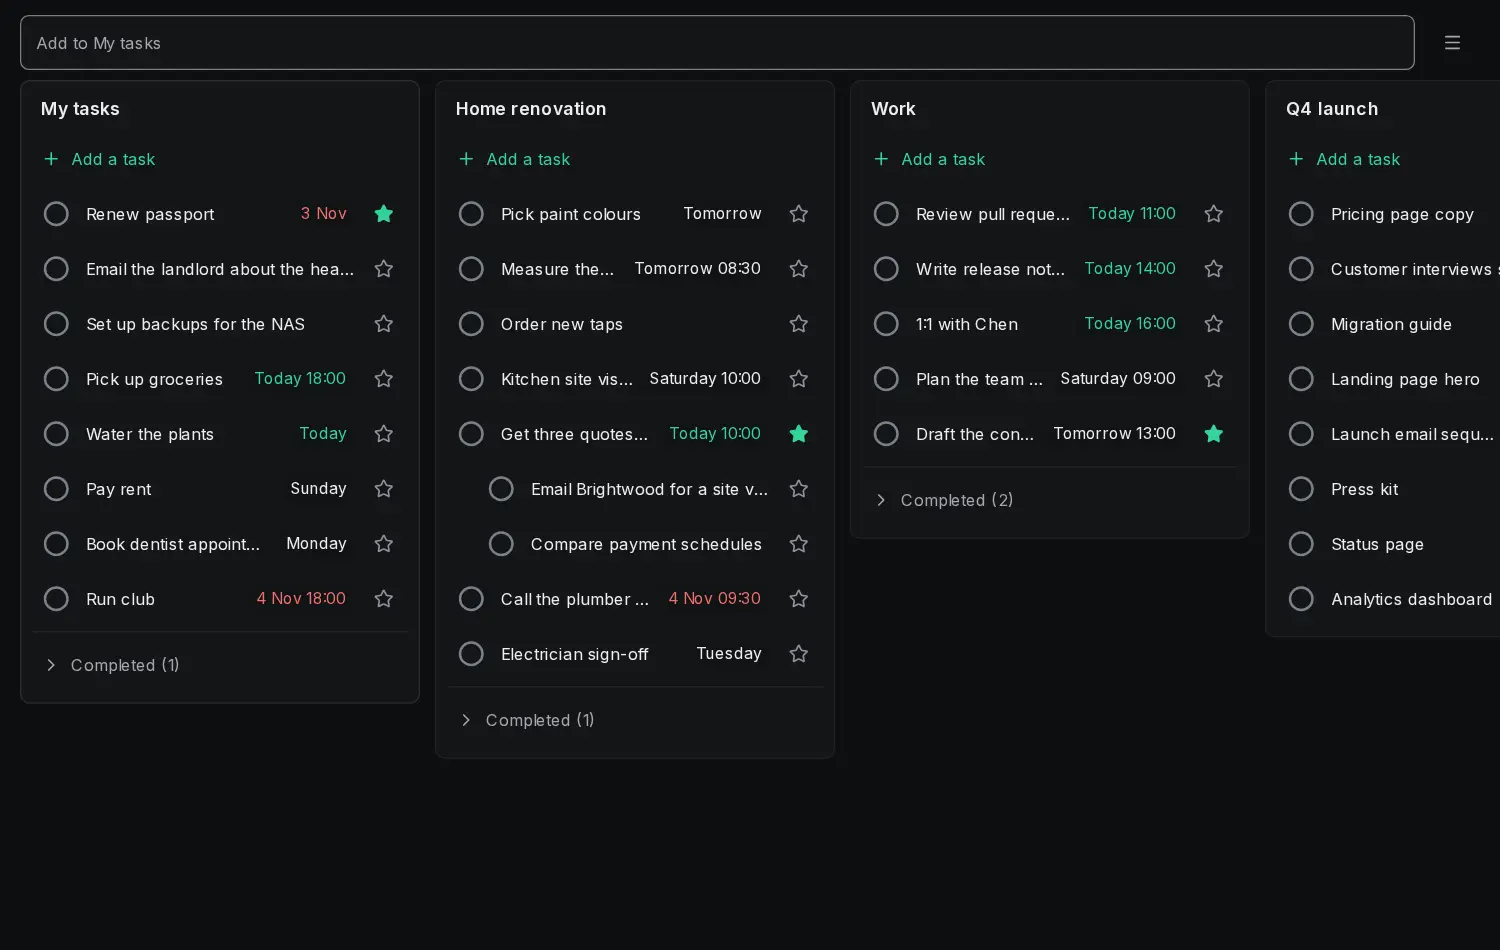
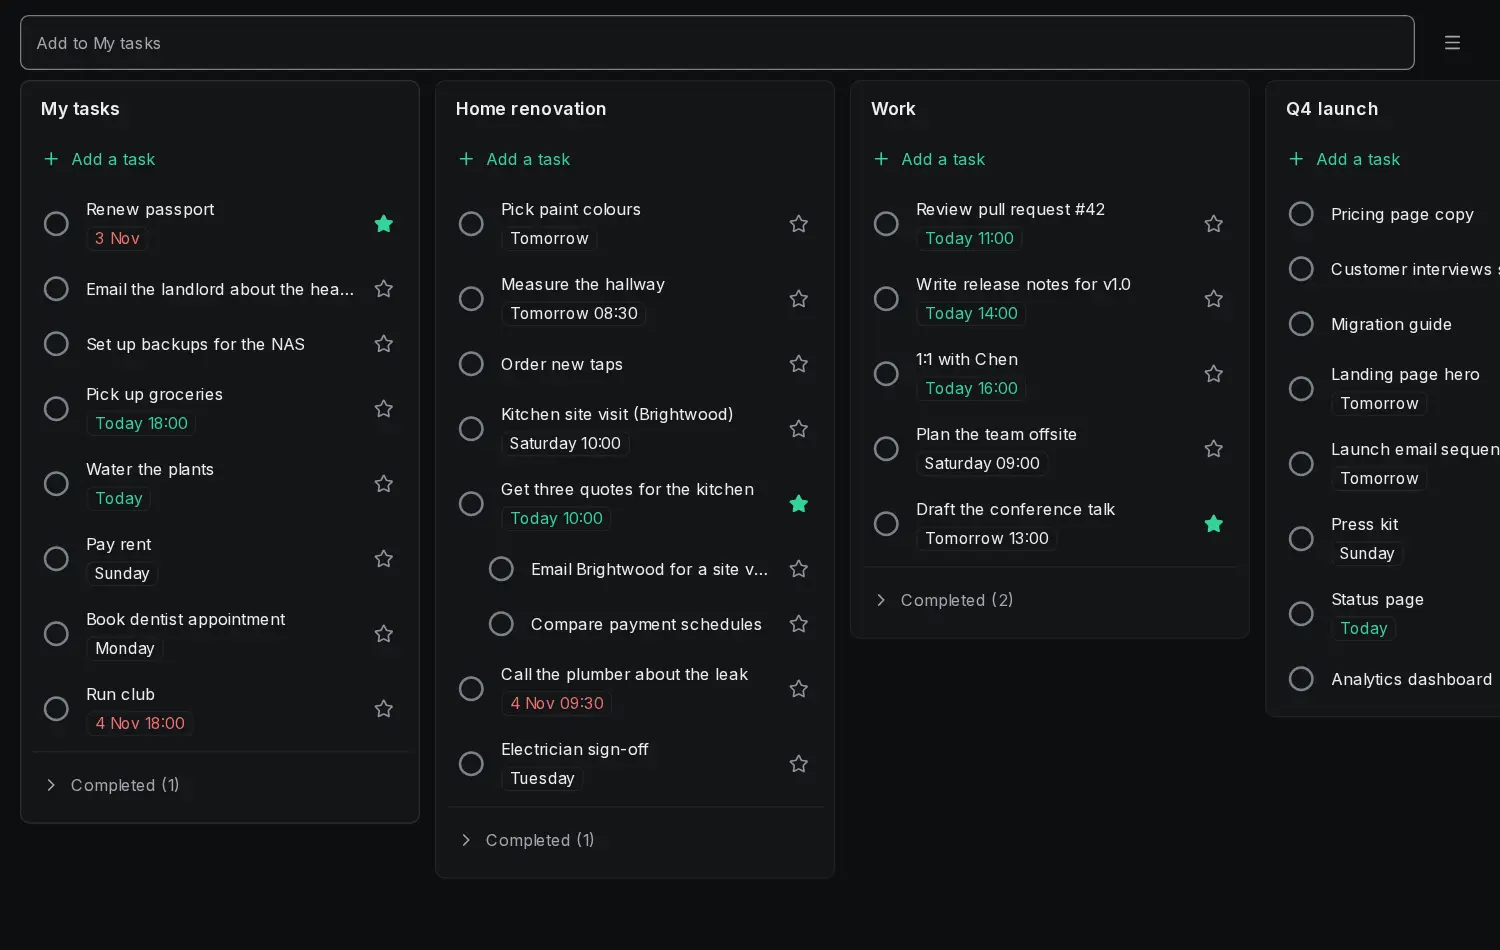
fix(simple-mode): the date under the title, stable story previews
A row's date chip took the title's room, so most dated titles were cut to a
few words; it now sits under the title, as in Google Tasks, with a border
that stays visible on the selected row. The Rows and Column stories use the
frozen story clock instead of the real date, the Board story completes the
task its Completed row is for, and the editor sheet has its own story.
Baselines regenerated in the pinned Playwright image, guide screenshots
retaken.

diff --git a/web/src/app/simple/simple.stories.tsx b/web/src/app/simple/simple.stories.tsx
@@ -1,15 +1,17 @@
 import type { Meta, StoryObj } from '@storybook/react-vite'
 import { useRef } from 'react'
-import { createProject, createSubtask, createTask } from '../../lib/ops'
+import { useProjects } from '../../lib/localData'
+import { completeTask, createProject, createSubtask, createTask, updateTask } from '../../lib/ops'
 import type { Task } from '../../lib/types'
-import { seeded, withSeed } from '../stories/fixtures'
+import { seeded, TODAY, TOMORROW, withClock, withSeed } from '../stories/fixtures'
 import { SimpleColumnView, type ColumnActions } from './SimpleColumn'
+import { SimpleEditor } from './SimpleEditor'
 import { SimpleField } from './SimpleField'
 import { SimpleRow } from './SimpleRow'
 import { SimpleScreen } from './SimpleScreen'
 
 // Simple mode (OpenSpec change simple-mode, task 4.7): the screen, seeded like a
-// Google Tasks account, and its row, column and field on their own.
+// Google Tasks account, and its row, column, field and editor on their own.
 const meta: Meta = { title: 'Screens/Simple', parameters: { layout: 'fullscreen' } }
 export default meta
 
@@ -19,12 +21,14 @@ async function seedLists(): Promise<void> {
   await createProject({ name: 'Home' })
   await createTask({ title: 'Buy paint' })
   await createTask({ title: 'Print diploma', priority: 1 })
-  const bank = await createTask({ title: 'Close bank account', project_id: admin, due: { date: new Date().toISOString().slice(0, 10) } })
+  const bank = await createTask({ title: 'Close bank account', project_id: admin, due: { date: TODAY } })
   await createSubtask(bank, 'Download statements')
   await createSubtask(bank, 'Move standing orders')
   await createTask({ title: 'BMW new tyres', project_id: car })
   const done = await createTask({ title: 'Call the garage', project_id: car })
   await createTask({ title: 'Renew insurance', project_id: car, due: { date: '2026-12-01' } })
+  await completeTask(done)
+  seeded.bank = bank
   seeded.car = car
   seeded.done = done
 }
@@ -39,12 +43,13 @@ const task = (over: Partial<Task>): Task => ({
 const noop = () => {}
 const actions: ColumnActions = { toggle: noop, star: noop, open: noop, select: noop, add: async () => {}, drop: noop, canEdit: () => true }
 
-/** Rows: plain, starred with a due date, a subtask with a count, completed. */
+/** Rows: plain, starred with a long title and a due date, a subtask with a count, completed. */
 export const Rows: StoryObj = {
+  decorators: [withClock],
   render: () => (
     <ul className="w-80 bg-surface p-2">
       <SimpleRow task={task({ id: 'a' })} onToggle={noop} onStar={noop} onOpen={noop} />
-      <SimpleRow task={task({ id: 'b', title: 'Close the bank account', priority: 1, due: { date: '2026-11-06' } })} selected onToggle={noop} onStar={noop} onOpen={noop} />
+      <SimpleRow task={task({ id: 'b', title: 'Close the bank account at the old branch', priority: 1, due: { date: TOMORROW } })} selected onToggle={noop} onStar={noop} onOpen={noop} />
       <SimpleRow task={task({ id: 'c', title: 'Download statements', parent_id: 'b' })} sub childCount={2} onToggle={noop} onStar={noop} onOpen={noop} />
       <SimpleRow task={task({ id: 'd', title: 'Call the garage', completed_at: 1 })} onToggle={noop} onStar={noop} onOpen={noop} />
     </ul>
@@ -53,11 +58,12 @@ export const Rows: StoryObj = {
 
 /** One column with its completed row. */
 export const Column: StoryObj = {
+  decorators: [withClock],
   render: () => (
     <div className="bg-canvas p-4">
       <SimpleColumnView active selectedId={null} dragging={null} setDragging={noop} actions={actions} column={{
         id: 'car', name: 'Car',
-        rows: [{ task: task({ id: 'r1', title: 'BMW new tyres' }), subtasks: [] }, { task: task({ id: 'r2', title: 'Renew insurance', priority: 1 }), subtasks: [{ task: task({ id: 'r3', title: 'Compare quotes', parent_id: 'r2' }), childCount: 0 }] }],
+        rows: [{ task: task({ id: 'r1', title: 'BMW new tyres', due: { date: TODAY, time: '17:30' } }), subtasks: [] }, { task: task({ id: 'r2', title: 'Renew insurance', priority: 1 }), subtasks: [{ task: task({ id: 'r3', title: 'Compare quotes', parent_id: 'r2' }), childCount: 0 }] }],
         completed: [task({ id: 'r4', title: 'Call the garage', completed_at: 1 })],
       }} />
     </div>
@@ -79,3 +85,16 @@ export const Field: StoryObj = { render: () => <FieldDemo ask /> }
 
 /** The field without the assistant: it only adds tasks. */
 export const FieldWithoutAssistant: StoryObj = { render: () => <FieldDemo ask={false} /> }
+
+async function seedEditor(): Promise<void> {
+  await seedLists()
+  await updateTask(seeded.bank, { description: 'Ask for the closing letter.' })
+}
+
+function EditorDemo() {
+  const projects = useProjects()
+  return <SimpleEditor id={seeded.bank} projects={projects} readOnly={false} onClose={noop} onStar={noop} onBreakDown={noop} onOpenFull={noop} onOpenTask={noop} />
+}
+
+/** The task editor sheet: title, star, notes, date, list and subtasks. */
+export const Editor: StoryObj = { ...withSeed(seedEditor), render: () => <EditorDemo /> }

diff --git a/web/src/app/simple/SimpleRow.tsx b/web/src/app/simple/SimpleRow.tsx
@@ -46,11 +46,11 @@ export function SimpleRow({ task, sub, childCount = 0, selected, readOnly, onTog
         </span>
       </button>
       <button type="button" onClick={onOpen} data-simple-title
-        className={`min-w-0 flex-1 truncate py-2 text-start text-body focus-visible:outline-2 focus-visible:outline-focus ${done ? 'text-muted line-through' : 'text-default'}`}>
-        {title}
+        className="flex min-w-0 flex-1 flex-col items-start gap-1 rounded-control py-2 text-start focus-visible:outline-2 focus-visible:outline-focus">
+        <span className={`w-full truncate text-body ${done ? 'text-muted line-through' : 'text-default'}`}>{title}</span>
+        {due && <span className={`rounded-chip border border-soft px-1.5 text-meta ${DUE_TONE[due.tone]}`} data-simple-due>{due.label}</span>}
       </button>
       {childCount > 0 && <span className="shrink-0 text-meta text-muted"><span aria-hidden>{childCount}</span><span className="sr-only">{t('{n, plural, one {# subtask} other {# subtasks}}', { n: childCount })}</span></span>}
-      {due && <span className={`shrink-0 rounded-chip bg-sunken px-1.5 py-0.5 text-meta ${DUE_TONE[due.tone]}`} data-simple-due>{due.label}</span>}
       {!done && (
         <button type="button" disabled={readOnly} onClick={onStar} aria-label={starred ? t('Starred') : t('Not starred')} title={starred ? t('Remove star') : t('Star')}
           className={`touch-target inline-flex size-8 shrink-0 items-center justify-center rounded-control focus-visible:outline-2 focus-visible:outline-focus ${starred ? 'text-accent' : 'text-faint hover:text-default'}`}>
